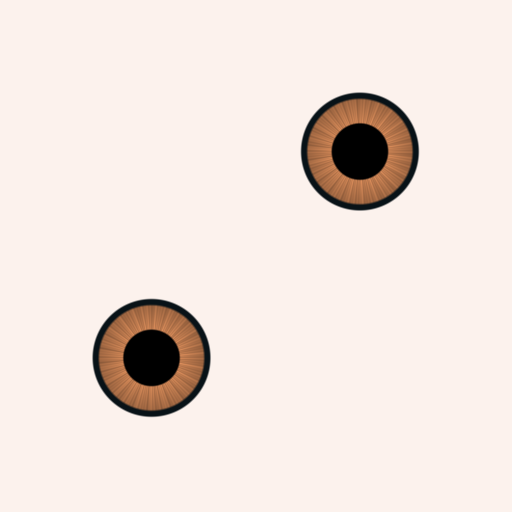
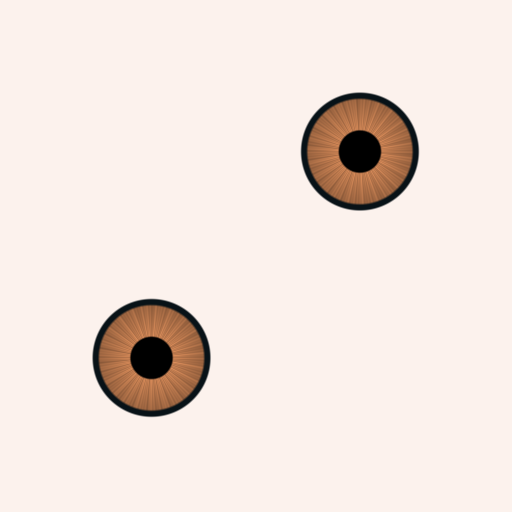
Eye maps: pupil at 0.36 of the iris, not 0.48: in the player's interior close-ups it read as a dilated eye

Changed region(s): [[0.2188, 0.625, 0.375, 0.7812], [0.625, 0.2188, 0.7812, 0.375]]

diff --git a/tools/eye_texture.py b/tools/eye_texture.py
@@ -3,8 +3,8 @@
     License information: data/licenses/makehuman_license.txt
 
     Paints the eye map of the low-poly eye for the Parle cast, in the style of the two characters
-    the owner likes (Rafa and the player): a light warm iris against a black pupil of about half
-    its width, a thin dark ring and fine radial fibres. The stock map has a dark muddy iris, so at
+    the owner likes (Rafa and the player): a light warm iris against a black pupil about a third
+    of its width, a thin dark ring and fine radial fibres. The stock map has a dark muddy iris, so at
     game distance pupil and iris merge and the eye reads as a hole. Same UV layout as stock: one
     iris per eye. The highlight comes from the renderer, like theirs.
 
@@ -22,7 +22,14 @@ CENTRES = ((0.703, 0.273), (0.296, 0.676))
 IRIS_RADIUS = 0.115
 # The cast has no eye bones and the globe rests looking slightly up: without this the pupil touches the upper lid.
 GAZE_DOWN = 0.2
-PUPIL_SHARE = 0.48
+# 0.48 read as a dilated eye in the player's interior close-ups (2026-11-09); 0.36 is the top of the light-adapted range below plus a small margin, chosen by eye.
+PUPIL_SHARE = 0.36
+# Bounds the regression test holds the painted pupil to, as shares of the iris radius. Light-adapted pupils under interior
+# light are about 3 to 4 mm across on an iris of about 11.7 mm, so 0.26 to 0.34 (Watson & Yellott 2012, "A unified formula for
+# light-adapted pupil size", Journal of Vision 12(10):12, DOI 10.1167/12.10.12). The top is 0.42, the share the game's eye
+# already authored as a design choice between that and the larger pupil people read as attractive (map/copacabana/npc/npc-eyes.lua).
+PUPIL_MIN_SHARE = 0.26
+PUPIL_MAX_SHARE = 0.42
 LIMBUS_SHARE = 0.90
 # BGR, 0-1. Measured on the player's iris for the middle one, then 20% lighter with a darker limbus and a whiter sclera: next to her and Rafa the eye read as dull (owner, 2026-11-08).
 IRISES = {

diff --git a/tests/test_parle_eye_map.py b/tests/test_parle_eye_map.py
@@ -1,0 +1,34 @@
+"""Regression for the eye map (2026-11-09): run with `.local/venv/bin/python tests/test_parle_eye_map.py`.
+
+The critic read the cast's pupil as too big under interior light. The map is painted, so the size and the roundness of the
+black disc are measured on the painted pixels of every iris colour, per eye.
+"""
+import sys
+from pathlib import Path
+
+import numpy as np
+
+sys.path.insert(0, str(Path(__file__).parent.parent / "tools"))
+import eye_texture as eye  # noqa: E402
+
+for name, colour in eye.IRISES.items():
+    image = eye.paint(colour).astype(float) / 255
+    for index, (cx, cy) in enumerate(eye.CENTRES):
+        centre_x = cx * eye.SIZE
+        centre_y = (cy + eye.GAZE_DOWN * eye.IRIS_RADIUS) * eye.SIZE
+        radius_px = eye.IRIS_RADIUS * eye.SIZE
+        # Walk out from the centre in 72 directions and stop where the map stops being black.
+        reach = []
+        for angle in np.arange(0, 2 * np.pi, 2 * np.pi / 72):
+            for step in np.arange(0, radius_px, 0.25):
+                x, y = int(centre_x + np.cos(angle) * step), int(centre_y + np.sin(angle) * step)
+                if image[y, x].max() > 0.08:
+                    reach.append(step)
+                    break
+        reach = np.array(reach)
+        share = reach.mean() / radius_px
+        assert share <= eye.PUPIL_MAX_SHARE, f"{name} eye {index}: pupil is {share:.2f} of the iris, over {eye.PUPIL_MAX_SHARE}"
+        assert share >= eye.PUPIL_MIN_SHARE, f"{name} eye {index}: pupil is {share:.2f} of the iris, under {eye.PUPIL_MIN_SHARE}"
+        assert reach.max() - reach.min() <= 2.0, f"{name} eye {index}: pupil outline varies {reach.max() - reach.min():.1f} px, not a circle"
+
+print("ok")
